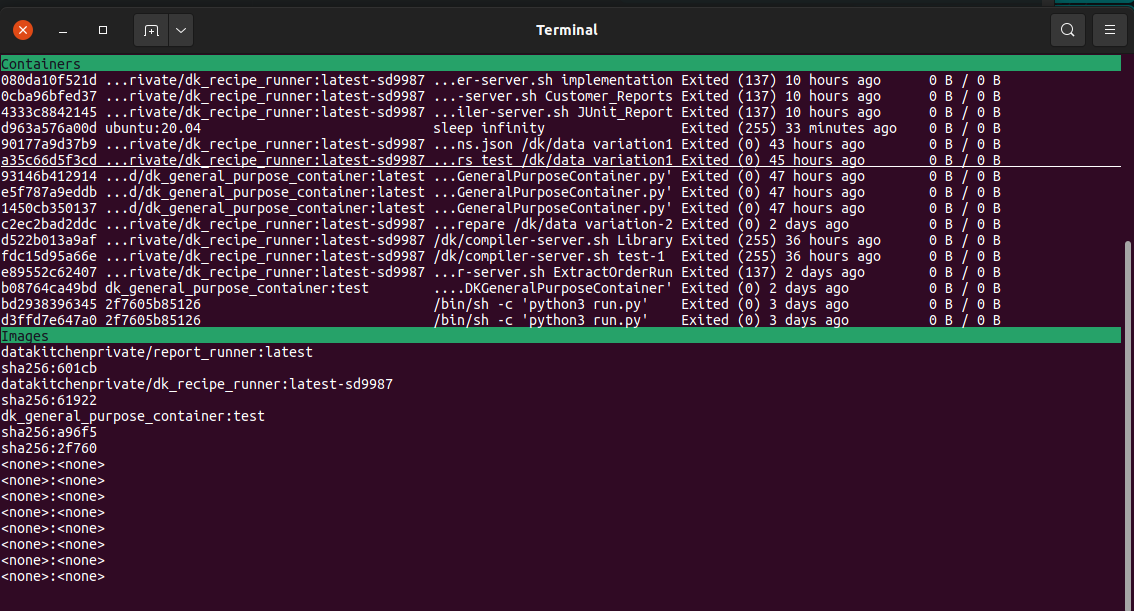
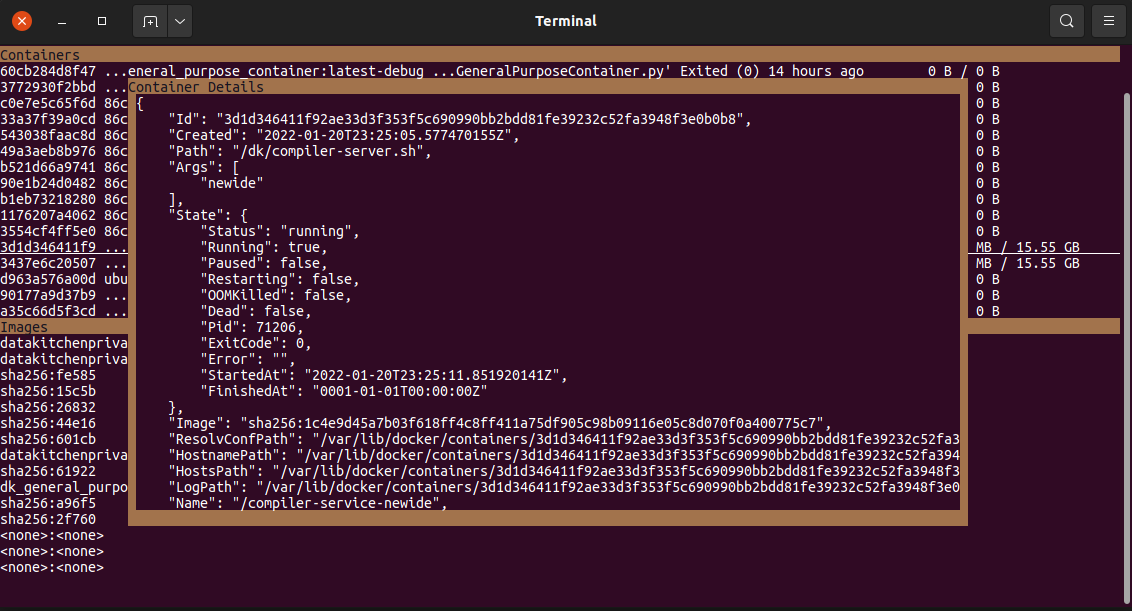
more stuff

diff --git a/ui/titled.go b/ui/titled.go
@@ -31,7 +31,7 @@ func (t *TitledContainer) SetRect(rect Rect) {
 
 func (t *TitledContainer) Draw() {
 	GotoXY(t.rect.x, t.rect.y)
-	Background(2)
+	Background(3)
 	Foreground(0)
 	WriteFill(t.title, t.rect.w)
 	if t.border {
